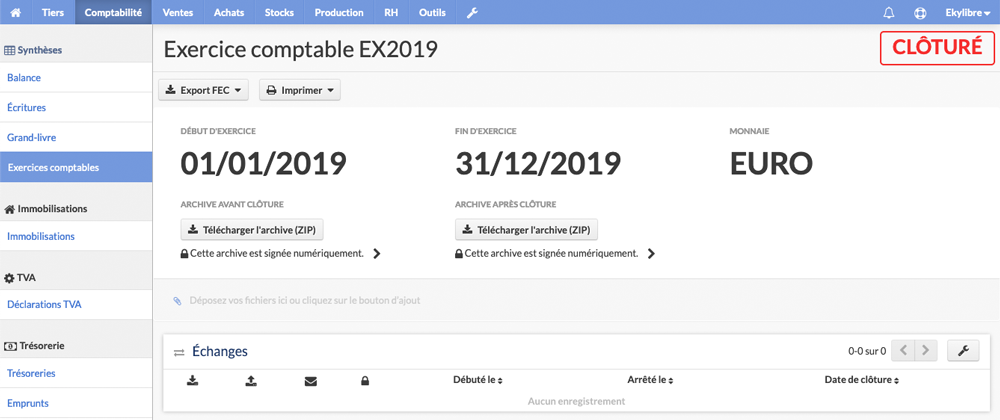
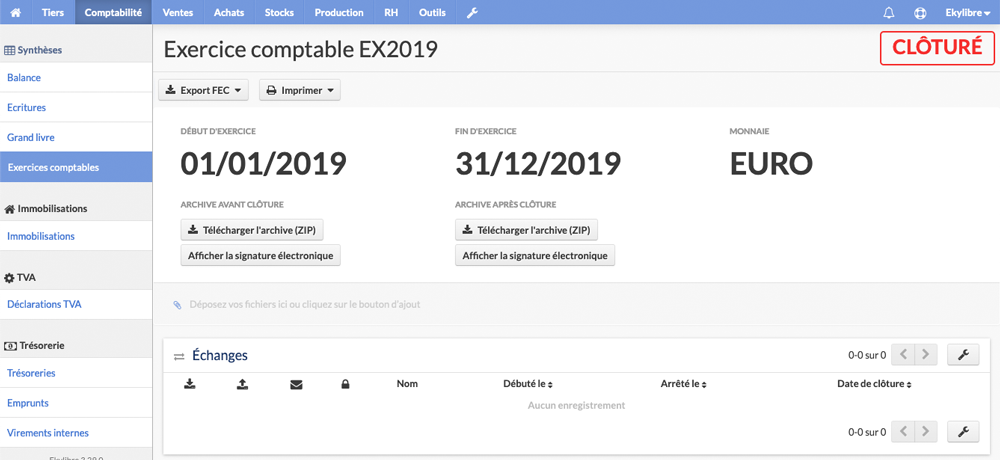
Màj captures Export FEC

diff --git a/content/fr/demarrage.html b/content/fr/demarrage.html
@@ -16,7 +16,7 @@
       <h1 align="center" class="texte majuscule aerateur">Guide de prise en main</h1>
       <p align="center"><img src="../images/accueil/icone-doc.png" alt="Documentation Ekylibre" height="100px"></p>
       <p align="center"><img src="../images/accueil/logos-eky.png" alt="Logos Ekylibre" height="80px"></p>
-      <p class="texte">Ce guide a pour but d'aider le nouvel utilisateur à configurer rapidement et correctement les applications développées par Ekylibre &#40;sauf <a href="https://doc.clic.farm/" target="_blank" class="avoid-clicks"><strong>Clic</strong>&#38;Farm</a>&#41; pour son exploitation agricole et de commencer à les utiliser. Cette documentation a été mise à jour le 10 mars 2021. La version au format PDF est datée du 8 mars 2021.</p>
+      <p class="texte">Ce guide a pour but d'aider le nouvel utilisateur à configurer rapidement et correctement les applications développées par Ekylibre &#40;sauf <a href="https://doc.clic.farm/" target="_blank" class="avoid-clicks"><strong>Clic</strong>&#38;Farm</a>&#41; pour son exploitation agricole et de commencer à les utiliser. Cette documentation a été mise à jour le 11 mars 2021. La version au format PDF est datée du 8 mars 2021.</p>
       <div class="info-fond aerateur-haut aerateur-bas">
          <div class="floating-box-info">
             <img src="../images/commun/info.svg" width="100" alt="Info"/>
